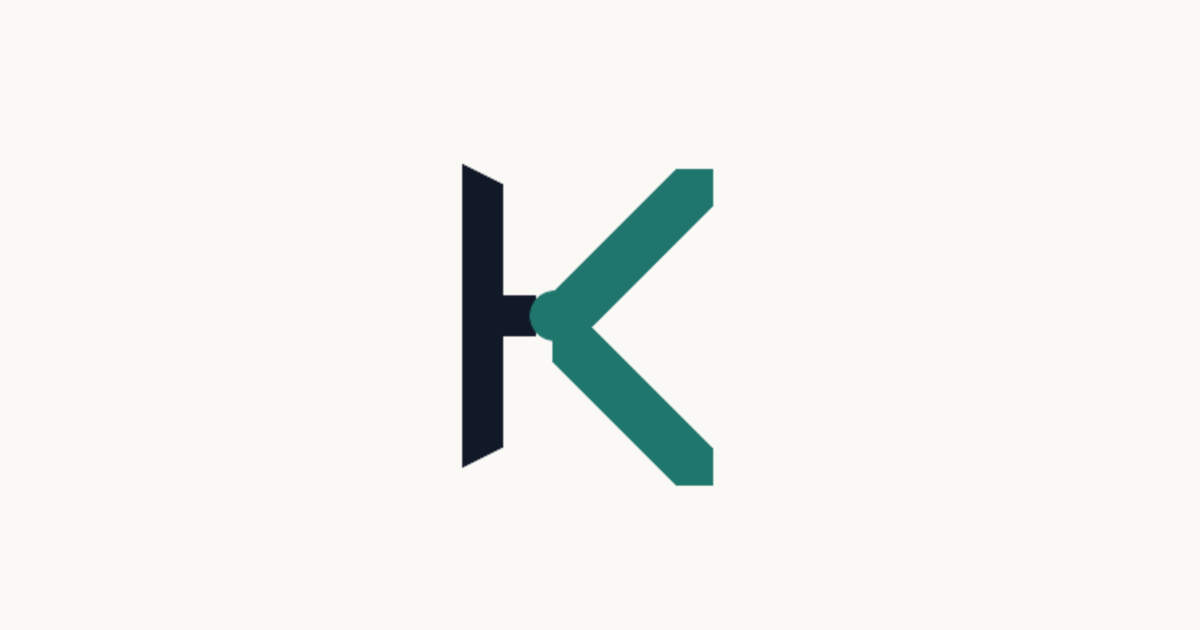
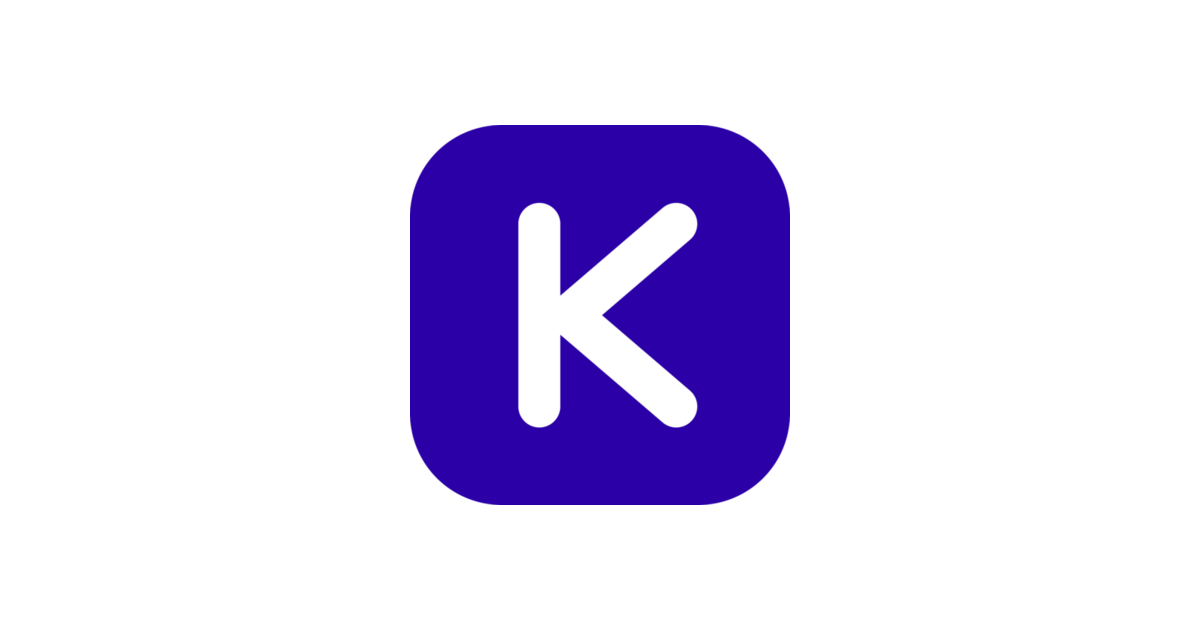
feat(brand): adopt Tile K as the site mark
Selected from the six candidates. Solid indigo squircle with a
knocked-out K — the most legible option at favicon sizes.

- Masthead inlines the tile; the K is knocked out with var(--bg) and the
  tile fills with var(--accent), so mark and links share one colour
- favicon.svg lifts the tile to #6D4DF6 on dark browser chrome so it
  doesn't sink into the tab strip; favicon.ico regenerated at 48/32/16
- apple-touch-icon rendered full-bleed square (iOS applies its own mask;
  rounded corners would composite to black)
- OG card rebuilt with the tile on white
- Divider ornament moves from the retired teal to the accent, retiring
  the --brand token: the palette is now a single indigo
- Candidate directory removed

Icons rasterised with ImageMagick primitives, not its SVG renderer,
which silently dropped the stroked paths and emitted a blank tile.

Changed region(s): [[0.3392, 0.181, 0.6783, 0.8143]]

diff --git a/layouts/partials/header.html b/layouts/partials/header.html
@@ -1,10 +1,12 @@
 <header class="masthead{{ if not .IsHome }} masthead--compact{{ end }} rise">
   <div class="page">
     <a class="masthead-lockup" href="{{ .Site.BaseURL }}">
-      <svg class="masthead-mark" viewBox="0 0 256 256" xmlns="http://www.w3.org/2000/svg" aria-hidden="true" focusable="false">
-        <path class="mark-spine" d="M44 36 68 48v68h20v24H68v68l-24 12V36Z"/>
-        <path class="mark-node" d="m99 114 75-75h22v22l-82 82-15-15v-14Zm0 28 15-15 82 82v22h-22l-75-75v-14Z"/>
-        <circle class="mark-node" cx="100" cy="128" r="15"/>
+      <svg class="masthead-mark" viewBox="0 0 100 100" xmlns="http://www.w3.org/2000/svg" aria-hidden="true" focusable="false">
+        <rect class="mark-tile" width="100" height="100" rx="24"/>
+        <g class="mark-k" fill="none" stroke-width="11" stroke-linecap="round" stroke-linejoin="round">
+          <path d="M34 26 V74"/>
+          <path d="M70 26 L42 50 L70 74"/>
+        </g>
       </svg>
       {{ if .IsHome }}
         <h1 class="masthead-title">{{ .Site.Title }}</h1>

diff --git a/assets/css/style.css b/assets/css/style.css
@@ -48,8 +48,6 @@
   --ink-soft: #55575C;
   --accent: #2B00A6;
   --accent-strong: #1C006E;
-  /* Brand mark keeps its book colours; the accent above is for links only. */
-  --brand: #1F766D;
   --rule: #E3E3E6;
   --code-paper: #F4F4F6;
   --code-border: #E3E3E6;
@@ -138,12 +136,13 @@ a:focus-visible {
   flex: none;
 }
 
-.masthead-mark .mark-spine {
-  fill: currentColor;
+.masthead-mark .mark-tile {
+  fill: var(--accent);
 }
 
-.masthead-mark .mark-node {
-  fill: var(--brand);
+/* K is knocked out of the tile, so it tracks the page ground */
+.masthead-mark .mark-k {
+  stroke: var(--bg);
 }
 
 .masthead-title {
@@ -262,7 +261,7 @@ a:focus-visible {
   width: 9px;
   height: 9px;
   border-radius: 50%;
-  background: var(--brand);
+  background: var(--accent);
 }
 
 /* Body typography. Content headings are demoted one level by the render

diff --git a/layouts/partials/head.html b/layouts/partials/head.html
@@ -29,6 +29,6 @@
   {{ $styles := slice $styleSyntax $styleMain | resources.Concat "css/style.css" | minify | fingerprint }}
   <link rel="stylesheet" href="{{ $styles.Permalink }}" integrity="{{ $styles.Data.Integrity }}">
   <link rel="icon" href="/favicon.svg" type="image/svg+xml">
-  <link rel="icon" type="image/png" sizes="64x64" href="/images/brand/keegoid-mark-64.png">
+  <link rel="icon" type="image/png" sizes="64x64" href="/images/brand/keegoid-tile-64.png">
   <link rel="apple-touch-icon" sizes="180x180" href="/images/brand/keegoid-touch-icon.png">
 </head>
